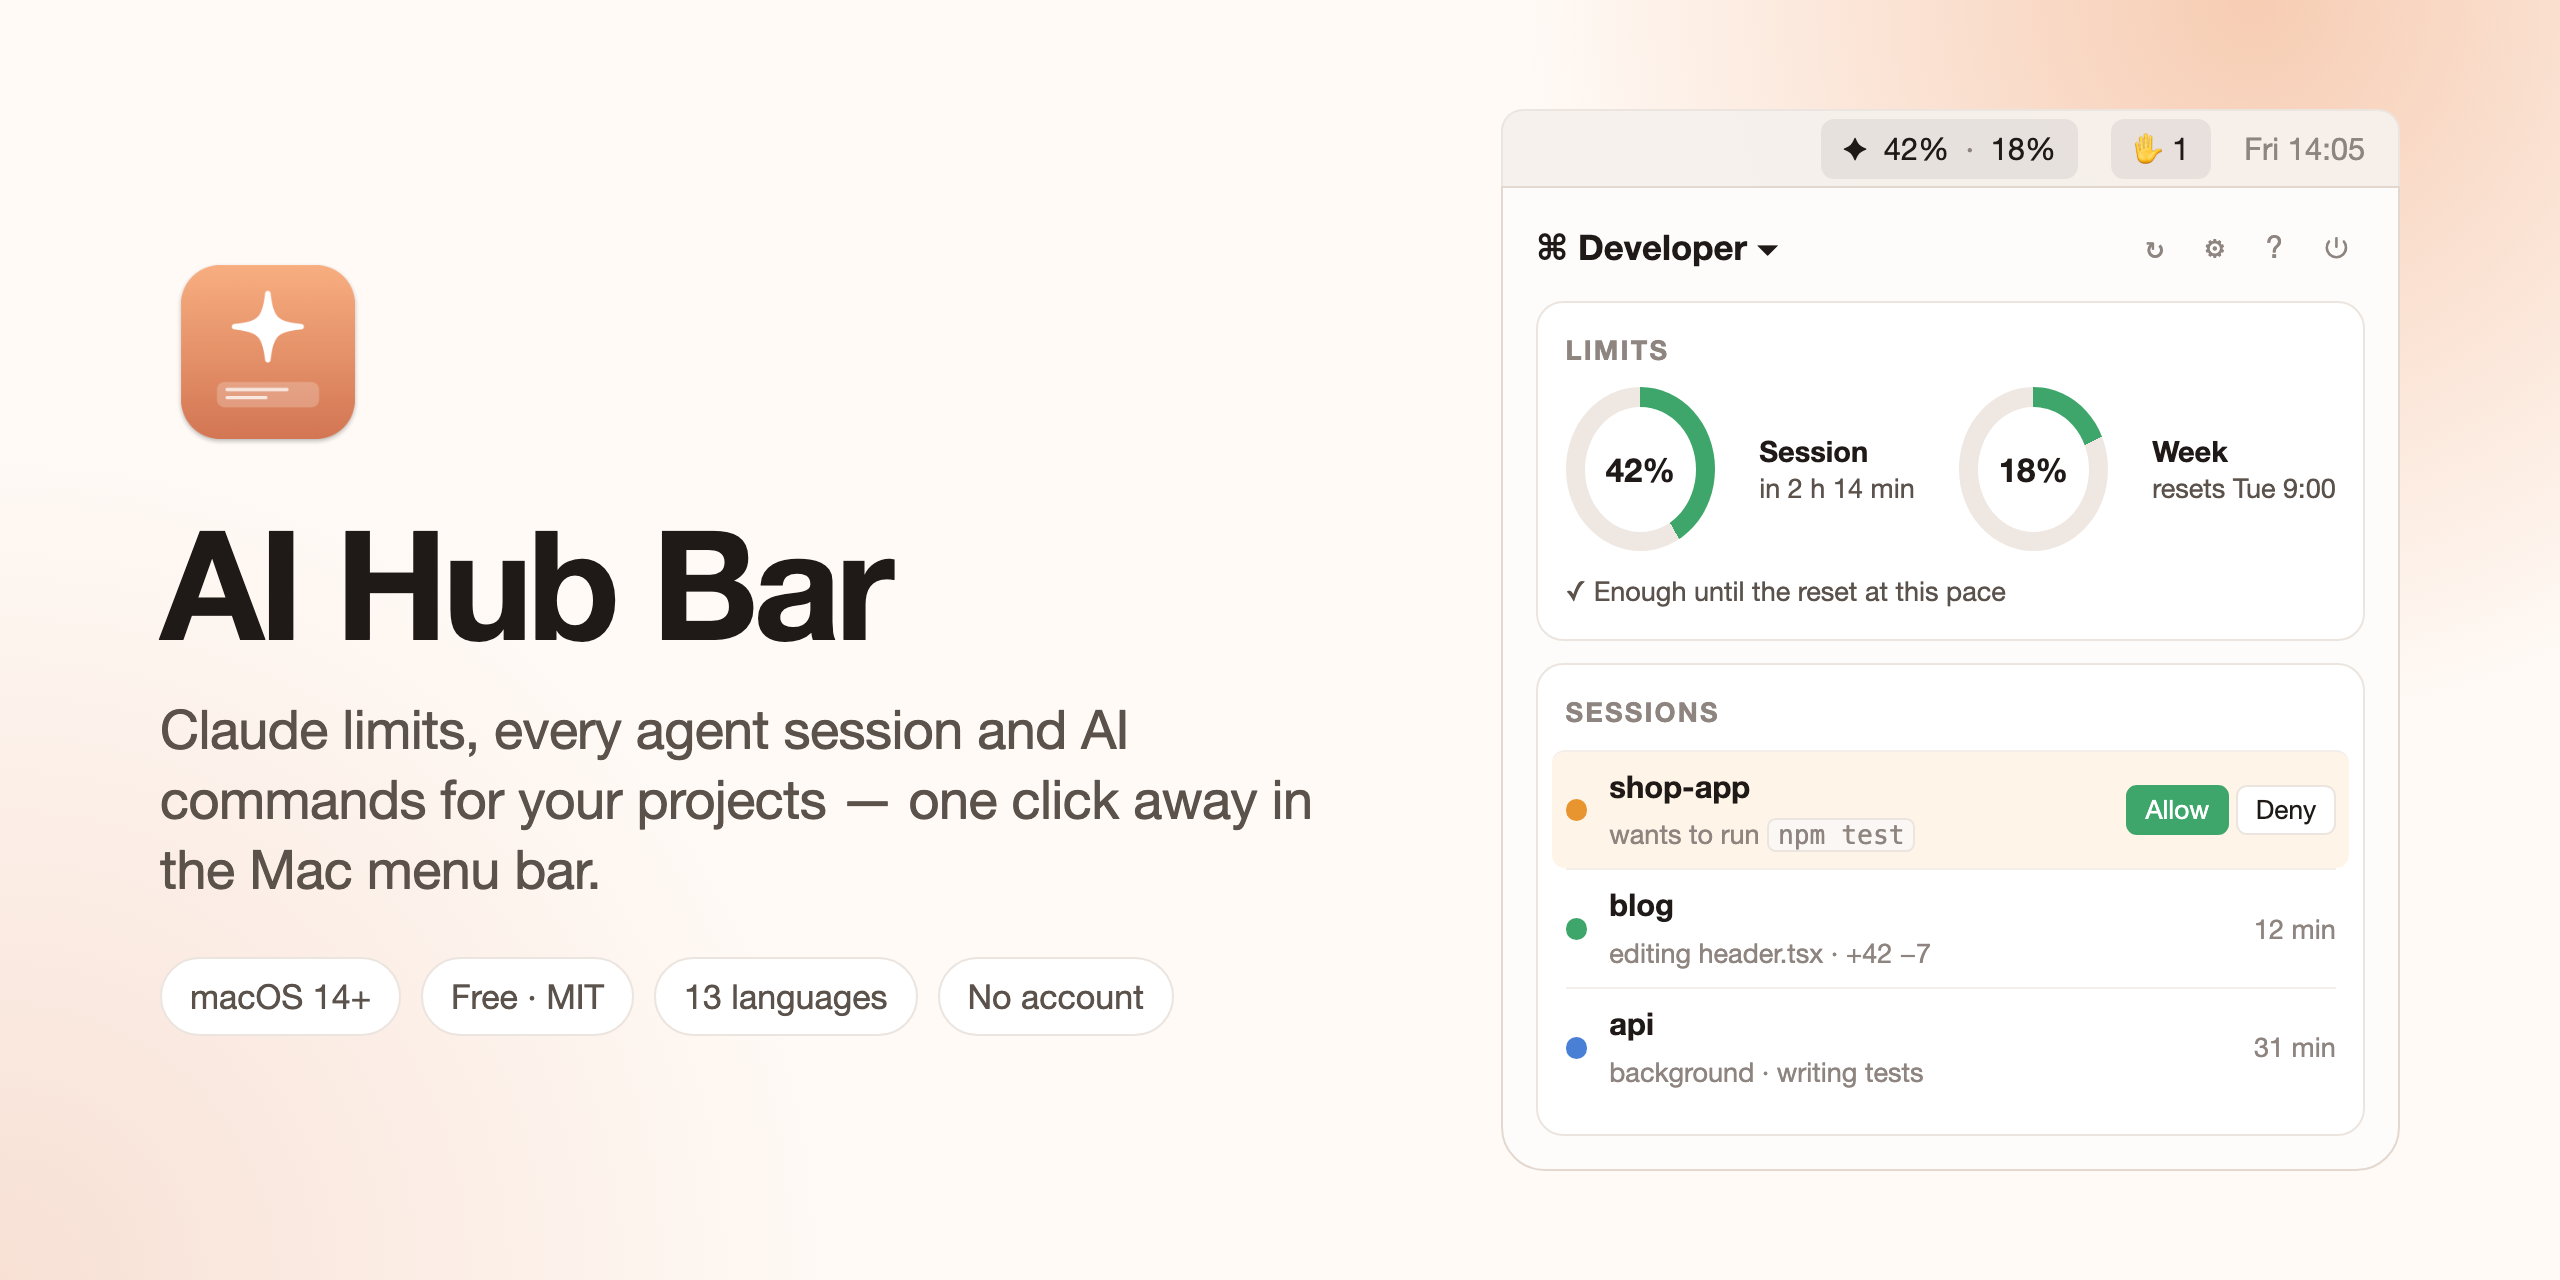
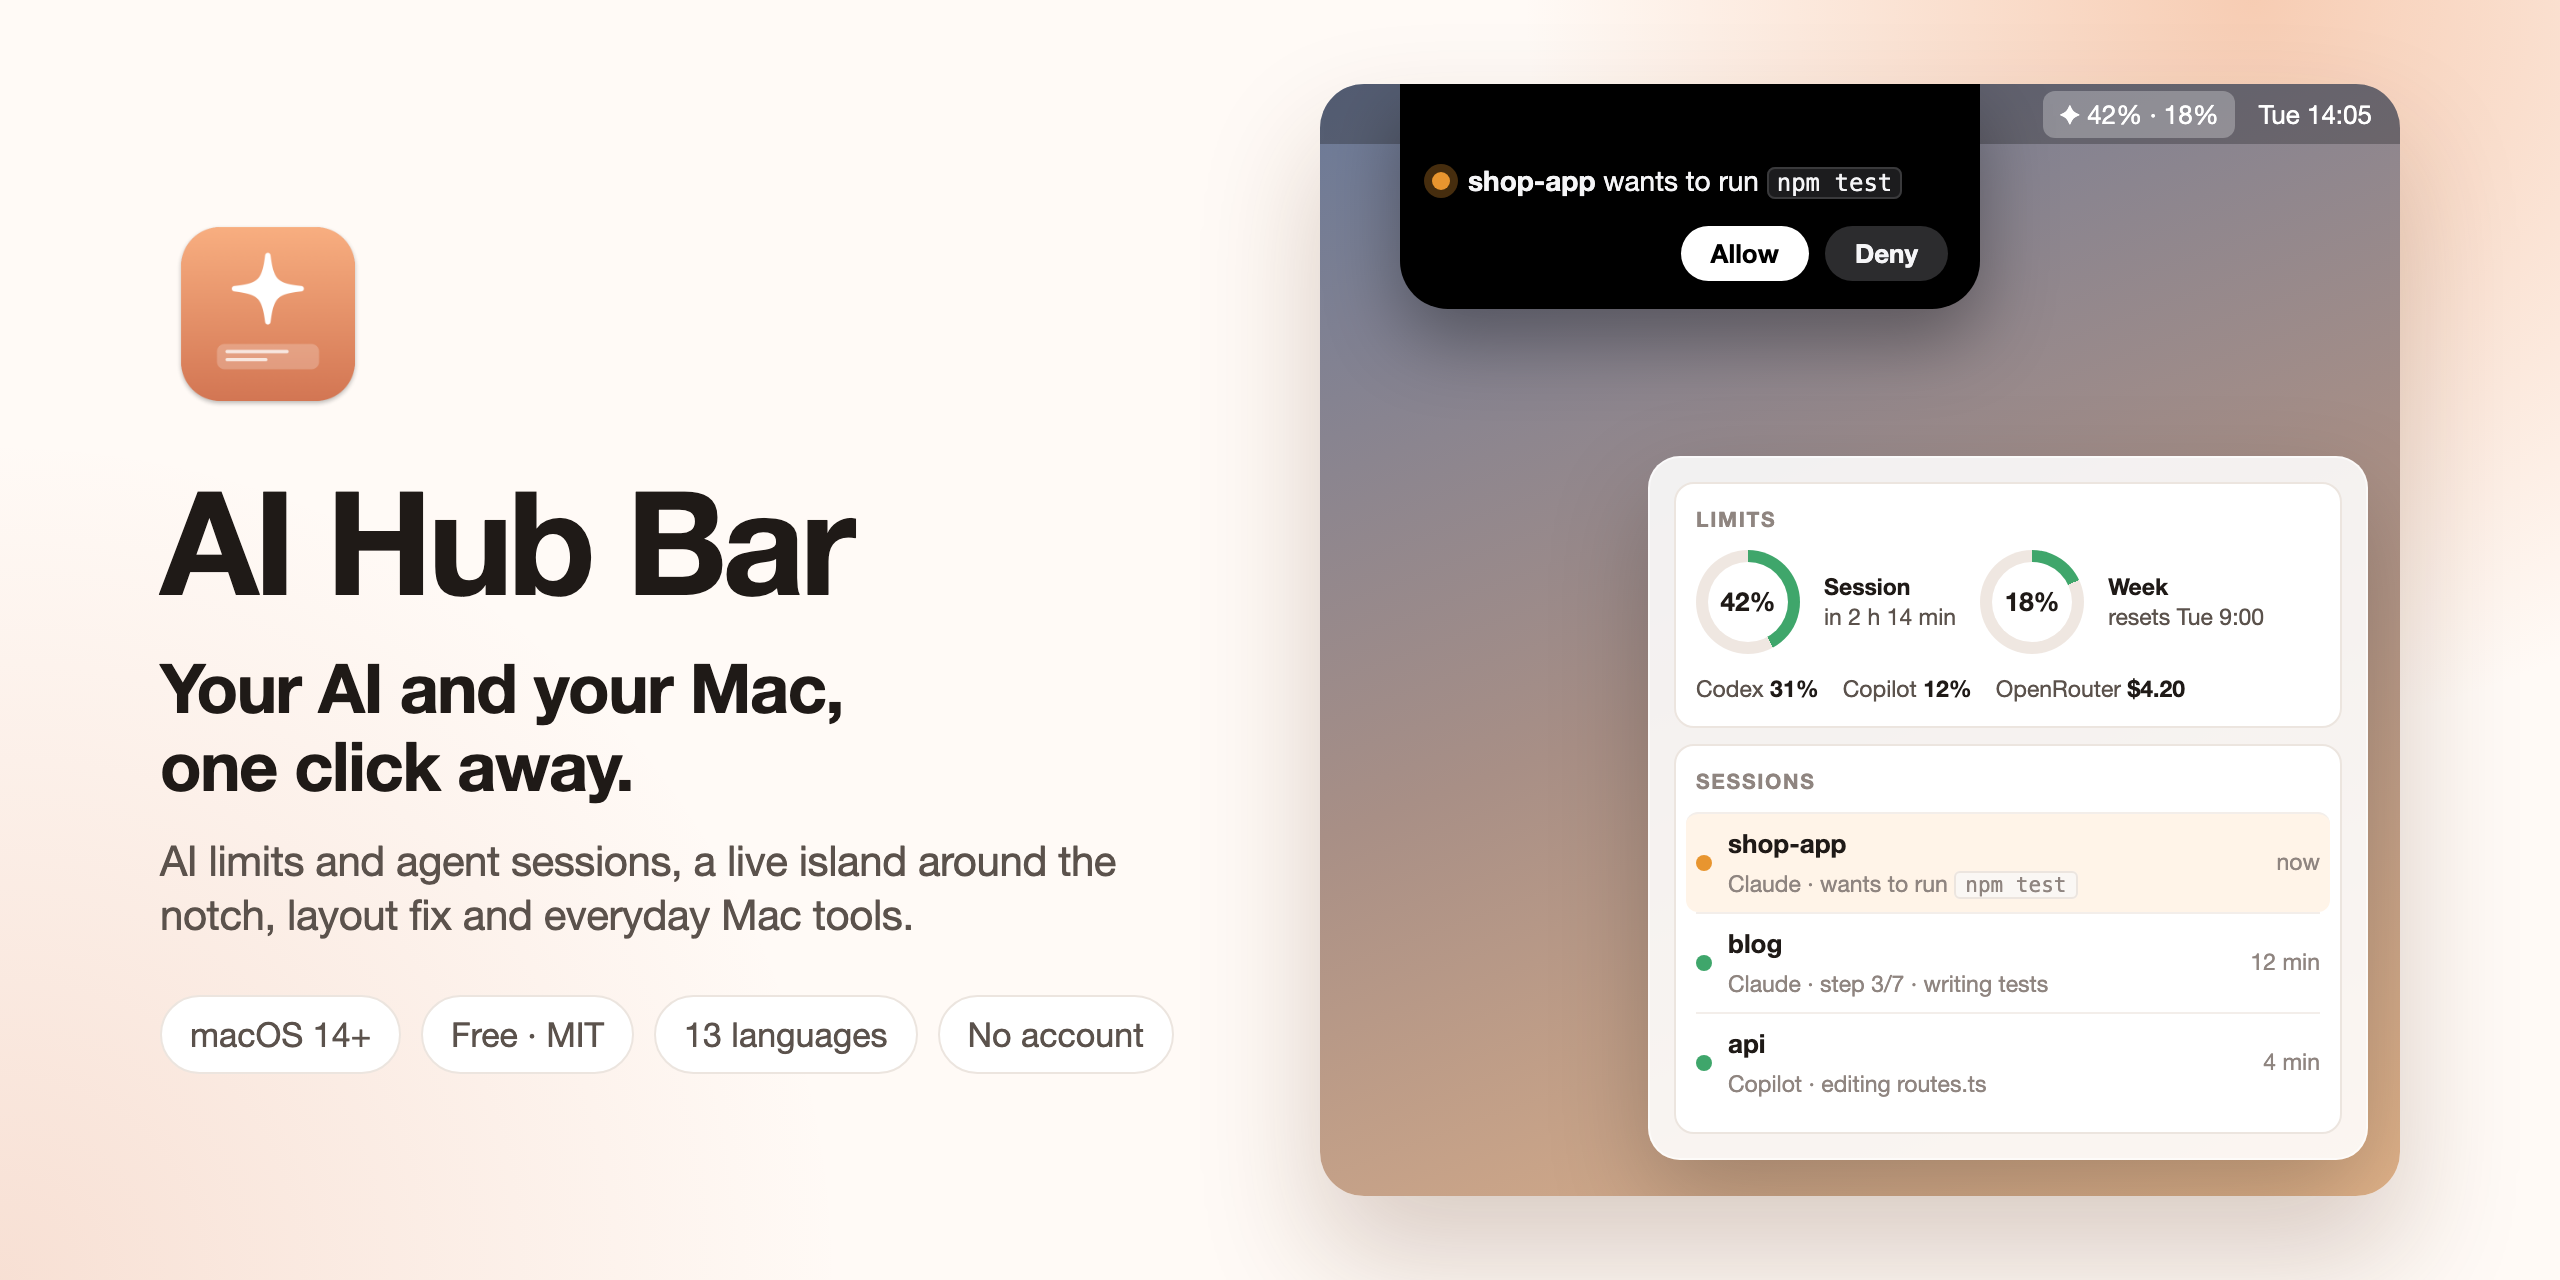
Redraw the social preview and README header for the 1.0 site

diff --git a/docs/overview/hero.html b/docs/overview/hero.html
@@ -21,40 +21,76 @@
   .hero-text p { font-size: 27px; line-height: 1.3; color: var(--ink-2); letter-spacing: -0.01em; margin: 0 0 26px; }
   .chips { display: flex; flex-wrap: wrap; gap: 10px; }
   .chips span { font-size: 17px; padding: 6px 14px; border-radius: 999px; background: #fff; border: 1px solid var(--line); color: var(--ink-2); }
-  .shot { zoom: 1.45; }
+  .hero-text h1 { font-size: 72px; }
+  .hero-text .tag { font-size: 34px; line-height: 1.15; color: var(--ink); font-weight: 650; letter-spacing: -0.02em; margin-bottom: 14px; }
+  .hero-text .sub { font-size: 21px; margin-bottom: 26px; }
+  /* The top of a Mac screen: the island at the notch asks for a permission, the panel hangs from the menu bar. */
+  .screen { position: relative; flex: 0 0 540px; height: 556px; border-radius: 22px; overflow: hidden; font-size: 13px;
+    background: linear-gradient(160deg, #6b7a99 0%, #a88f86 50%, #e3b48a 100%); box-shadow: 0 30px 60px rgba(80,40,20,.22); }
+  .mbar { height: 30px; display: flex; align-items: center; justify-content: flex-end; gap: 12px; padding: 0 14px; color: #fff;
+    background: rgba(30,30,34,.32); font-size: 13px; }
+  .mbar .on { background: rgba(255,255,255,.28); padding: 2px 8px; border-radius: 6px; }
+  .island { position: absolute; top: 0; left: 40px; width: 290px; background: #000; color: #f5f5f7;
+    border-radius: 0 0 24px 24px; padding: 38px 16px 14px; box-shadow: 0 16px 36px rgba(0,0,0,.35); }
+  .island .q { display: flex; align-items: center; gap: 9px; font-size: 14px; }
+  .island .dot { width: 9px; height: 9px; border-radius: 50%; background: var(--orange); box-shadow: 0 0 0 4px rgba(232,149,47,.3); }
+  .island code { background: #1c1c1e; color: #f5f5f7; border: 1px solid #3a3a3c; border-radius: 4px; padding: 0 4px; font-size: 12px; }
+  .island .acts { display: flex; justify-content: flex-end; gap: 8px; margin-top: 12px; }
+  .island .acts span { padding: 4px 15px; border-radius: 999px; background: #2c2c2e; font-weight: 600; }
+  .island .acts .ok { background: #fff; color: #000; }
+  .p { position: absolute; top: 186px; right: 16px; width: 360px; padding: 12px; border-radius: 16px;
+    background: rgba(255,255,255,.88); border: 1px solid rgba(255,255,255,.6); box-shadow: 0 20px 50px rgba(0,0,0,.22); }
+  .p .card { background: #fff; border: 1px solid var(--line); border-radius: 10px; padding: 10px; margin-bottom: 8px; }
+  .p .card:last-child { margin-bottom: 0; }
+  .p .t { font-size: 10.5px; text-transform: uppercase; letter-spacing: .08em; color: var(--ink-3); font-weight: 650; margin-bottom: 7px; }
+  .p .rings { display: flex; gap: 12px; align-items: center; }
+  .p .ring { width: 52px; height: 52px; border-radius: 50%; display: grid; place-items: center; position: relative; flex: none; }
+  .p .ring::after { content: ""; position: absolute; inset: 6px; border-radius: 50%; background: #fff; }
+  .p .ring span { position: relative; z-index: 1; font-weight: 700; font-size: 13px; }
+  .p .rl { font-size: 11.5px; color: var(--ink-2); line-height: 1.3; white-space: nowrap; }
+  .p .rl b { color: var(--ink); }
+  .p .svc { display: flex; gap: 12px; margin-top: 9px; font-size: 11.5px; color: var(--ink-2); }
+  .p .svc b { color: var(--ink); }
+  .p .row { display: flex; align-items: center; gap: 8px; padding: 5px 0; border-top: 1px solid #f3eeea; }
+  .p .row:first-of-type { border-top: 0; }
+  .p .row i { width: 8px; height: 8px; border-radius: 50%; flex: none; }
+  .p .row small { color: var(--ink-3); font-size: 11.5px; }
+  .p .row .r { margin-left: auto; font-size: 11.5px; color: var(--ink-3); }
+  .p .row.w { background: #fff4e8; margin: 0 -5px; padding: 5px; border-radius: 6px; }
+  .p code { font-size: 10.5px; }
 </style>
 </head>
 <body>
 <div class="hero-wrap">
   <div class="hero-text">
-    <img src="../../ClaudePult/Resources/Assets.xcassets/AppIcon.appiconset/icon_512x512.png" alt="">
+    <img src="../../AIHubBar/Resources/Assets.xcassets/AppIcon.appiconset/icon_512x512.png" alt="">
     <h1>AI Hub Bar</h1>
-    <p>Claude limits, every agent session and AI commands for your projects — one click away in the Mac menu bar.</p>
+    <p class="tag">Your AI and your Mac,<br>one click away.</p>
+    <p class="sub">AI limits and agent sessions, a live island around the notch, layout fix and everyday Mac tools.</p>
     <div class="chips"><span>macOS 14+</span><span>Free · MIT</span><span>13 languages</span><span>No account</span></div>
   </div>
-  <div class="shot">
-    <div class="menubar" style="width:82mm">
-      <span class="item">✦ <span>42%</span><span class="muted">·</span><span>18%</span></span>
-      <span class="item">✋ 1</span>
-      <span class="muted">Fri 14:05</span>
+  <div class="screen">
+    <div class="mbar"><span class="on">✦ 42% · 18%</span><span>Tue 14:05</span></div>
+    <div class="island">
+      <div class="q"><span class="dot"></span><span><b>shop-app</b> wants to run <code>npm test</code></span></div>
+      <div class="acts"><span class="ok">Allow</span><span>Deny</span></div>
     </div>
-    <div class="panel">
-      <div class="head"><span class="prof">⌘ Developer ▾</span><span class="icons">↻ ⚙ ? ⏻</span></div>
-      <div class="pcard">
+    <div class="p">
+      <div class="card">
         <div class="t">Limits</div>
         <div class="rings">
           <div class="ring" style="background:conic-gradient(var(--green) 0 42%, #efe7e1 0)"><span>42%</span></div>
-          <div class="ringlabel"><b>Session</b><br>in 2 h 14 min</div>
+          <div class="rl"><b>Session</b><br>in 2 h 14 min</div>
           <div class="ring" style="background:conic-gradient(var(--green) 0 18%, #efe7e1 0)"><span>18%</span></div>
-          <div class="ringlabel"><b>Week</b><br>resets Tue 9:00</div>
+          <div class="rl"><b>Week</b><br>resets Tue 9:00</div>
         </div>
-        <div class="forecast">✓ Enough until the reset at this pace</div>
+        <div class="svc"><span>Codex <b>31%</b></span><span>Copilot <b>12%</b></span><span>OpenRouter <b>$4.20</b></span></div>
       </div>
-      <div class="pcard" style="margin-bottom:0">
+      <div class="card">
         <div class="t">Sessions</div>
-        <div class="row wait"><span class="st" style="background:var(--orange)"></span><span><span class="name">shop-app</span><br><span class="sub">wants to run <code>npm test</code></span></span><span class="right"><span class="btn ok">Allow</span> <span class="btn">Deny</span></span></div>
-        <div class="row"><span class="st" style="background:var(--green)"></span><span><span class="name">blog</span><br><span class="sub">editing header.tsx · +42 −7</span></span><span class="right">12 min</span></div>
-        <div class="row"><span class="st" style="background:var(--blue)"></span><span><span class="name">api</span><br><span class="sub">background · writing tests</span></span><span class="right">31 min</span></div>
+        <div class="row w"><i style="background:var(--orange)"></i><span><b>shop-app</b><br><small>Claude · wants to run <code>npm test</code></small></span><span class="r">now</span></div>
+        <div class="row"><i style="background:var(--green)"></i><span><b>blog</b><br><small>Claude · step 3/7 · writing tests</small></span><span class="r">12 min</span></div>
+        <div class="row"><i style="background:var(--green)"></i><span><b>api</b><br><small>Copilot · editing routes.ts</small></span><span class="r">4 min</span></div>
       </div>
     </div>
   </div>

diff --git a/docs/STATUS.md b/docs/STATUS.md
@@ -8,11 +8,11 @@
 - nothing in progress; refactoring stage 8 (audit leftovers) done — #230–#232
 
 **Next:**
-- social preview image for the new site headline («Your AI and your Mac, one click away»)
 - next beta or 0.5.1 carries stage 8 (#230–#232): 0.5.1-beta.1 was built from 27c5e2d, before it
 - Windows/Linux postponed: no work until Oleh brings it back (where it stopped: docs/specs/SPEC-windows.md §9, stage 2–3 leftovers)
 
 **Needs Oleh:**
+- GitHub → repository Settings → Social preview: upload docs/images/social-preview.png (only by hand)
 - Settings → Copilot → «Установить hook»: then start `copilot` and check its row in «Сессии» (the agent wasn't allowed to install it into ~/.copilot itself)
 - say what comes next: «Раскладка» to everyone, or new features
 - look at the new Settings and say what to change next
@@ -20,6 +20,12 @@
 - «Раскладка»: tried live in TextEdit, Safari, Chrome (⌥⇧ too); Telegram and Notes are yours to try (not typed into by the agent)
 - older, still open: Mac mini Claude CLI sign-in, crash report alert from 16:46, Chinese model keys, ja/ko/ar translations, docs/CHECKLIST.md «Oleh» rows, social preview image, old repo `OlehDemishev/ClaudeBar`
 <!-- summary:end -->
+
+## 2026-11-03 — social preview for the 1.0 site (branch `chore/social-preview-1.0`)
+
+Done: docs/overview/hero.html redrawn as the site's hero: «Your AI and your Mac, one click away», the island at the notch asking for a permission and the panel with several services and Claude/Copilot sessions; the icon path fixed after the AIHubBar rename. Rendered docs/images/hero.png (README header, 2x) and social-preview.png (1280×640), copied to site/. README alt text updated.
+Checked: both images looked at after rendering; nothing overlaps.
+Left: the GitHub repository's own social preview (Settings → General → Social preview) is uploaded by hand — Oleh. The overview PDFs still have the old tagline.
 
 ## 2026-11-03 — 1.0 site published (branch `chore/status-site-published`)
 

diff --git a/README.md b/README.md
@@ -1,5 +1,5 @@
 <p align="center">
-  <img src="docs/images/hero.png" alt="AI Hub Bar: Claude limits, agent sessions and AI commands in the Mac menu bar" width="100%">
+  <img src="docs/images/hero.png" alt="AI Hub Bar: your AI and your Mac, one click away — AI limits and agent sessions, the notch island and Mac tools in the menu bar" width="100%">
 </p>
 
 <p align="center">
